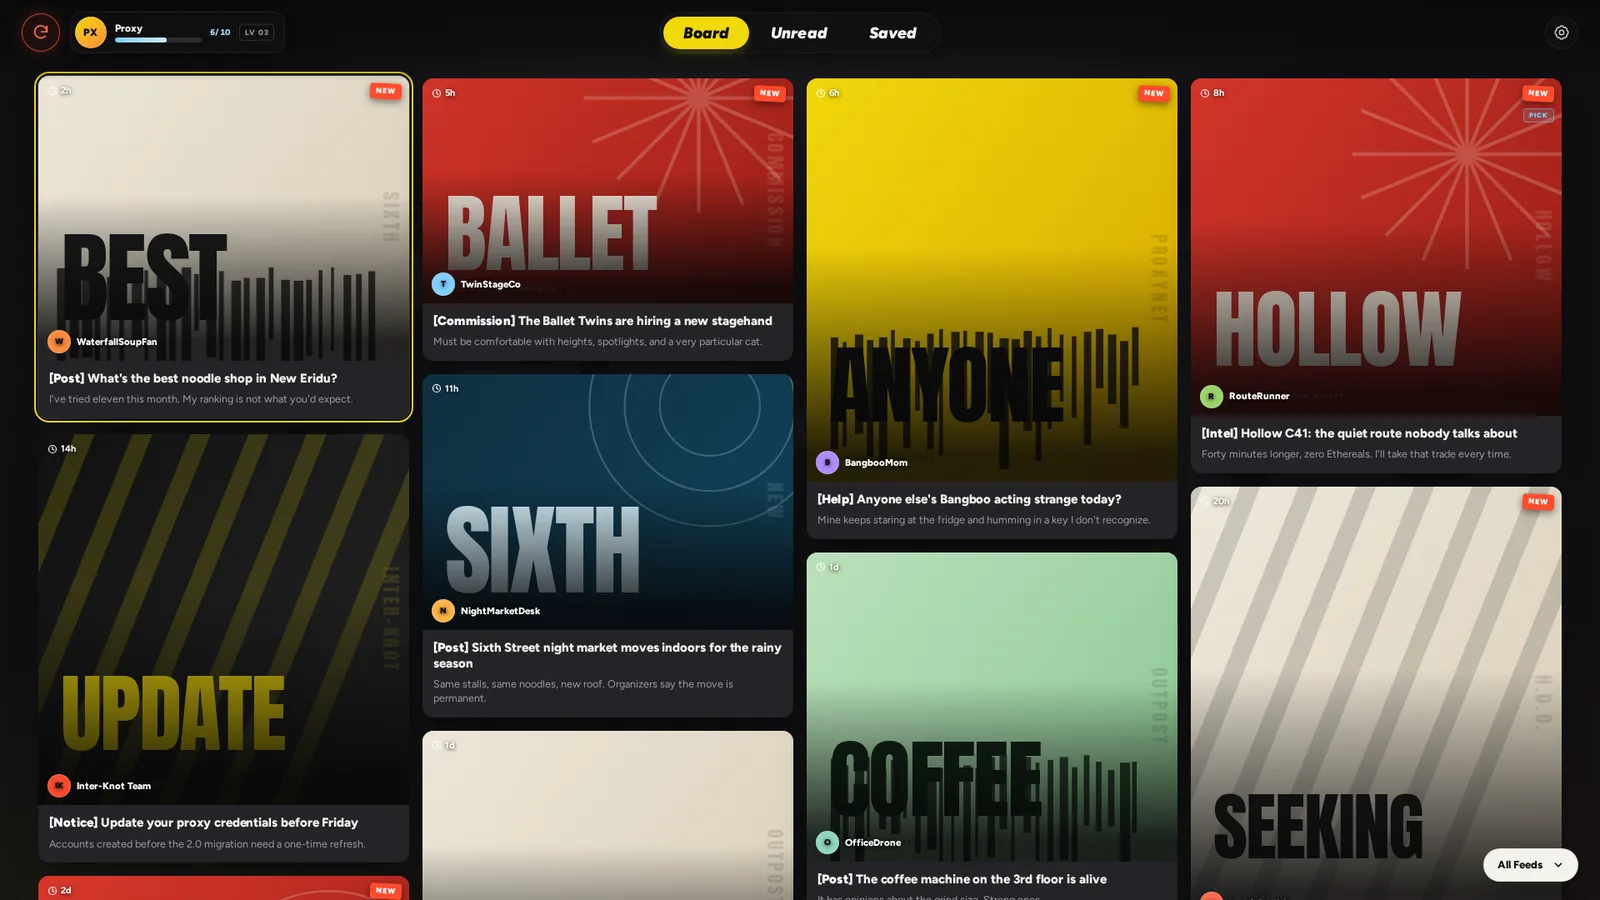
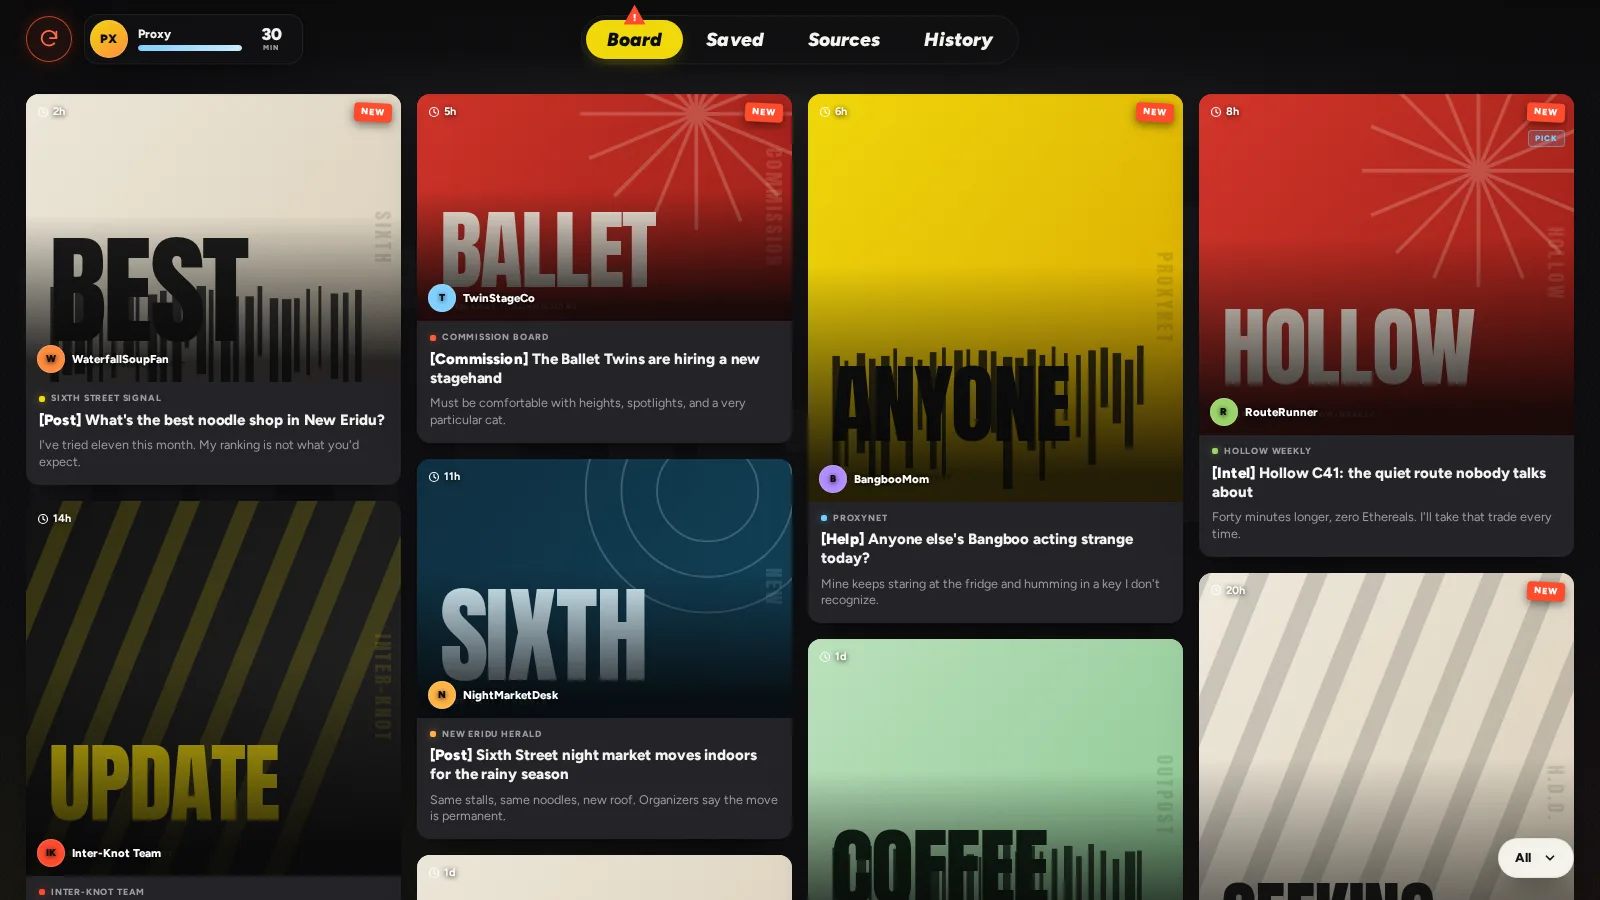
docs: document the section model and mindful defaults
The README, architecture notes, roadmap, feed contract, and security policy now describe the four sections, scoped filter, mindful cap, adaptive Load more, History, and opt-in read-on-scroll. Board and post screenshots are regenerated from the current build.

diff --git a/docs/ARCHITECTURE.md b/docs/ARCHITECTURE.md
@@ -11,8 +11,10 @@ reader backend can be added without rewriting the UI.
 ## Status
 
 v0.1.0 is the UI demo. Components render in-world demo data from
-`src/data/demo.ts`. The feed pipeline described below is the v0.2.0/v0.3.0 work;
-it is documented here so the UI is built against the right seams.
+`src/data/demo.ts`. The sections, scoped filter, mindful timer, adaptive
+pagination, read-on-scroll heuristic, and History view are local-only. The feed
+pipeline described below is the v0.2.0/v0.3.0 work; it is documented here so the
+UI is built against the right seams.
 
 ## Stack
 
@@ -32,16 +34,19 @@ can be replaced without touching the design layer.
 
 ## Component map
 
-| Element            | Responsibility                                                    |
-| ------------------ | ----------------------------------------------------------------- |
-| `<ik-app>`         | Owns articles, active tab, feed filter, settings/density state.   |
-| `<ik-topbar>`      | Refresh control, profile chip, `Board`/`Unread`/`Saved` tabs.     |
-| `<ik-board>`       | Measures itself, chooses a column count, distributes cards.       |
-| `<ik-card>`        | One post: media, time badge, source, tag, title, excerpt.         |
-| `<ik-poster>`      | Deterministic SVG/CSS poster for posts without a photo.           |
-| `<ik-post-dialog>` | Post reader over the blurred board; comments, quote, system note. |
-| `<ui-tabs>`        | ARIA tab behavior and panel selection.                            |
-| `<ui-dialog>`      | Top-layer modal, focus trap, Escape, focus return.                |
+| Element            | Responsibility                                                                       |
+| ------------------ | ------------------------------------------------------------------------------------ |
+| `<ik-app>`         | Owns articles, section, scope, source filter, opened/saved state, timer, pagination. |
+| `<ik-topbar>`      | Refresh control, mindful cap chip, `Board`/`Saved`/`Sources`/`History`.              |
+| `<ik-board>`       | Masonry layout, adaptive batch size, optional read-on-scroll observer.               |
+| `<ik-card>`        | One post: media, time badge, source mark, tag, title, excerpt.                       |
+| `<ik-poster>`      | Deterministic SVG/CSS poster for posts without a photo.                              |
+| `<ik-post-dialog>` | Post reader over the blurred board; save, comments, quote, system note.              |
+| `<ik-sources>`     | Source management shell; direct RSS fills it next.                                   |
+| `<ik-history>`     | Posts actually opened, not cards merely seen on the board.                           |
+| `<ik-proxy>`       | Profile, mindful cap, appearance, read-on-scroll, local demo notes.                  |
+| `<ui-tabs>`        | ARIA tab behavior and panel selection.                                               |
+| `<ui-dialog>`      | Top-layer modal, focus trap, Escape, focus return.                                   |
 
 The board uses a shortest-column placement in `ik-board.ts`: cards are assigned
 in feed order to the currently shortest column, which keeps each column
@@ -49,12 +54,39 @@ chronological while balancing height. `ResizeObserver` re-runs the layout when
 the available width changes. Hidden tab panels measure `0px` and are relaid out
 when shown.
 
+## Sections and filters
+
+The four top-level sections are **Board**, **Saved**, **Sources**, and
+**History**. The bottom-right filter owns the view state: `All`, `Unread`, or
+`Read`, plus an optional source scope. It does not duplicate the sections. The
+popover opens upward; the scope group is pinned at the bottom so it stays near
+the pointer when the source list is long.
+
+Opening a post marks it read and adds an entry to History. Read-on-scroll, when
+enabled, marks a card read after the whole card has been visible for 1.5 seconds;
+it never adds to History. The unread scope disables auto-marking so the queue
+stays intact.
+
+## Mindful timer
+
+The profile chip shows the current cap and a draining session bar instead of a
+level and XP. Only active Board browsing drains the timer. The post dialog, the
+Proxy sheet, other sections, a hidden tab, and an idle tab all pause it. Leaving
+for more than five minutes recharges at one minute per minute away, up to the
+cap. Changing the cap starts a fresh session. `Unlimited` is explicit and is
+never the default. State is stored in `localStorage`; no network request is
+involved.
+
 ## Data flow (v0.1.0)
 
 ```
-demo.ts ──► ik-app ──► ik-board ──► ik-card ──► ik-poster
-                │
-                └──► ik-post-dialog ──► comments / quote / note
+demo.ts ──► ik-app ──► filtered, limited articles ──► ik-board ──► ik-card
+                │                                      │
+                │                                      ├──► ik-poster
+                │                                      └──► read-on-scroll observer
+                ├──► ik-post-dialog ──► read / history / save
+                ├──► ik-history ──► openedAt entries
+                └──► ik-proxy ──► mindful timer / preferences
 ```
 
 No network requests are made.
@@ -112,9 +144,10 @@ request.
 
 ## Storage plan
 
-- `localStorage`: transport choice, proxy URL, UI density, feed list metadata.
-- `IndexedDB`: normalized articles (capped per feed), read/starred flags, last
-  fetch times, last error per feed.
+- `localStorage`: transport choice, proxy URL, mindful timer and cap, compact
+  density, read-on-scroll preference, feed list metadata.
+- `IndexedDB`: normalized articles (capped per feed), read/starred flags, opened
+  history, last fetch times, last error per feed.
 - Secrets: API passwords/tokens in `sessionStorage` by default. Persisting them
   is an explicit opt-in with a warning; they are never written into URLs or
   logs.
@@ -126,6 +159,13 @@ request.
   layer to maintain.
 - **Masonry.** CSS columns are avoided because they break reading order. The
   board is a flex row of flex columns, filled by estimated height.
+- **Pagination.** The board measures its column count, viewport, and rendered
+  card heights, then asks `computeBatchSize()` for roughly five screens of cards.
+  The app keeps a `limit`; there is no scroll-triggered auto-load.
+- **Read-on-scroll.** `IntersectionObserver` uses thresholds including full
+  visibility, a root margin that excludes the fixed top bar, and a 1.5-second
+  dwell. Tall cards pass when they cover the reading area instead of fitting
+  inside it. Auto-marking is skipped in the Unread scope.
 - **Posters.** `hash(article.id + title)` seeds a palette and pattern. The art is
   SVG; the large word/tag/code line is a HTML overlay so it stays anchored at any
   card aspect ratio.
@@ -136,7 +176,8 @@ request.
 ## Testing
 
 - Vitest covers deterministic helpers (`hashString`, `mulberry32`,
-  `relativeTime`, `initials`).
+  `relativeTime`, `initials`, mindful timer math, adaptive batch size,
+  scope/source filtering, and full-card visibility).
 - The planned parser suite uses fixtures for RSS 2.0, Atom, RDF, JSON Feed,
   malformed XML, relative URLs, and entity-expansion attempts.
 - The planned proxy suite covers URL validation and private-IP blocking.

diff --git a/README.md b/README.md
@@ -13,27 +13,50 @@ An unofficial fan project and a tech demo — not a service.
 ## What this is
 
 Inter-Knot Board is a single-page reader that treats feeds like posts pinned to a
-board: a masonry wall, bracketed tags, a floating header, and a post view that
-opens over a blurred board.
+board: a masonry wall, bracketed tags, a floating header, a mindful session
+timer, and a post view that opens over a blurred board.
 
 It is a static site. There are no accounts, no backend, no analytics, and no
-tracking. Your feed list and reading state live in your browser.
+tracking. Your feed list, reading state, and timer live in your browser.
 
-**Status: v0.1.0 — UI demo.** The board, post view, filters, keyboard basics,
-responsive layout, and generated poster art work. The feed pipeline (RSS/Atom,
-OPML, local proxy, FreshRSS) is the next milestone. Until then the board uses
-clearly in-world demo posts.
+**Status: v0.1.0 — UI demo.** The board, post view, sections, scoped filter,
+mindful timer, adaptive pagination, keyboard basics, responsive layout, and
+generated poster art work. The feed pipeline (RSS/Atom, OPML, local proxy,
+FreshRSS) is the next milestone. Until then the board uses clearly in-world demo
+posts.
+
+## Mindful by default
+
+The old level and XP bar are gone. The profile chip now shows the current reading
+cap and a timer that drains only while you browse the board. The default is
+**30 minutes**. When it runs out, `Load more` pauses and the Proxy sheet offers
+a refill. Leaving the board recharges it after a five-minute grace period. The
+cap is adjustable, and an explicit Unlimited switch is there for the weekend.
+
+The board never auto-loads. `Load more` adds roughly five board viewports’ worth
+of cards, calculated from the column count and measured card heights. There are
+no infinite-scroll or engagement-ranking mechanics. Read-on-scroll is opt-in and
+uses the whole card plus a dwell period; the unread filter never auto-marks, so
+it stays a queue.
 
 ## What works today
 
 - Order-preserving masonry: 4 → 3 → 2 → 1 columns.
-- Post cards with relative time, unread/new markers, source, tag, title, excerpt.
+- Post cards with relative time, unread/new markers, source identity, tag, title,
+  excerpt.
 - Deterministic generated posters for posts without images (8 palettes, 5
   patterns) — no grey placeholders.
-- Post dialog: blurred backdrop, source bar, red close button, optional system
-  note, poster/media pane, scrollable article, `Expand`, quote card, tags,
-  comments with floor badges.
-- Board / Unread / Saved tabs, per-feed filter, compact-density toggle.
+- Post dialog: blurred backdrop, source bar, save toggle, red close button,
+  optional system note, poster/media pane, scrollable article, `Expand`, quote
+  card, tags, comments with floor badges.
+- Board / Saved / Sources / History sections. Opening a post marks it read and
+  files it in History; Saved is a real library, not demo state.
+- Bottom-right filter: All / Unread / Read plus source scope, with the scope
+  controls pinned nearest the pill.
+- Mindful timer and Proxy sheet: cap choices, Unlimited, refill, compact density,
+  read-on-scroll.
+- Adaptive `Load more`: about five board viewports per batch, never an infinite
+  scroll.
 - Keyboard: cards are focusable; `Enter`/`Space` opens; the dialog traps focus
   and closes on `Escape`.
 - Static build with type-checking and a production CSP.
@@ -66,7 +89,9 @@ default and only mode that works without help; feeds that do not send
 | **Lemmy**            | Same as direct                    | Native community/user RSS — planned v0.5.0    |
 
 Only the UI demo is implemented in v0.1.0; the rows above are documented
-contracts, not shipped features.
+contracts, not shipped features. The `Sources` section is the shell that direct
+RSS fills in v0.2.0. Folder management is deliberately deferred until the
+FreshRSS phase, when imported categories need a review flow.
 
 The planned daily-use setup is **GitHub Pages + local proxy + browser storage**,
 with FreshRSS or Miniflux as optional sync backends. The app will never ship a

diff --git a/docs/ROADMAP.md b/docs/ROADMAP.md
@@ -14,11 +14,25 @@ Shipped in this repository.
 
 Not in v0.1.0: real feed fetching. The board uses in-world demo posts.
 
+## v0.1.1 — board sections and mindful pass
+
+Shipped after the first UI demo.
+
+- Four sections: Board, Saved, Sources, History.
+- Bottom-right filter with All / Unread / Read plus source scope.
+- Mindful timer replacing the level/XP readout; cap, refill, Unlimited.
+- Adaptive `Load more` at roughly five board viewports; no infinite scroll.
+- Opening a post marks it read, files it in History, and allows saving.
+- Opt-in read-on-scroll with a full-card dwell.
+- Source identity on cards; Proxy sheet for preferences.
+- Red tab alerts use the game's warning triangle.
+
 ## v0.2.0 — feed core
 
 - RSS 2.0, Atom, RDF, and JSON Feed parsing.
 - Direct transport with time/size limits and useful error classes.
-- Feed manager: add, remove, refresh, error state.
+- Feed manager: add, remove, refresh, error state. The Sources section becomes
+  the real manager.
 - Add-feed discovery from an HTML page (`<link rel="alternate">`).
 - IndexedDB article cache; read/starred state; unread counts.
 - OPML import/export.
@@ -54,6 +68,8 @@ Not in v0.1.0: real feed fetching. The board uses in-world demo posts.
 - A hosted SaaS, accounts, billing, or multi-tenant sync.
 - A public CORS proxy or a feed-fetching backend in this repository.
 - Voting, posting, or moderation actions on Lemmy or other fediverse services.
+- Infinite scroll, engagement ranking, or a feed that optimizes for time on
+  site. The board is a reading surface, not a timeline.
 - Shipping game assets, official fonts, or reference screenshots.
 - Supporting every feed quirk. The parser should be robust, not infinite.
 

diff --git a/docs/FEEDS.md b/docs/FEEDS.md
@@ -34,6 +34,11 @@ Transport selection is explicit. If a direct fetch fails, the app explains the
 failure and offers the configured alternatives; it never silently reroutes a
 feed through a third party.
 
+The `Sources` section is the UI shell for this contract. It lands with the direct
+transport in v0.2.0; the other rows are documented, not shipped. Folder
+management is deferred until the FreshRSS phase, when imported categories need a
+review and conflict flow.
+
 ## Direct fetch rules
 
 - **HTTPS only.** An HTTPS page cannot fetch an `http://` feed (mixed content).

diff --git a/SECURITY.md b/SECURITY.md
@@ -47,6 +47,8 @@ and protecting a user from a compromised browser or extension.
 ## Security decisions in this repository
 
 - No analytics, telemetry, or third-party scripts.
+- Reading state, the mindful timer, open history, and preferences are local to
+  the browser. They are not transmitted.
 - No public CORS proxy is shipped or recommended.
 - Direct feed fetching is credential-free (`credentials: "omit"`).
 - The production CSP is injected at build time (see `vite.config.ts`).
